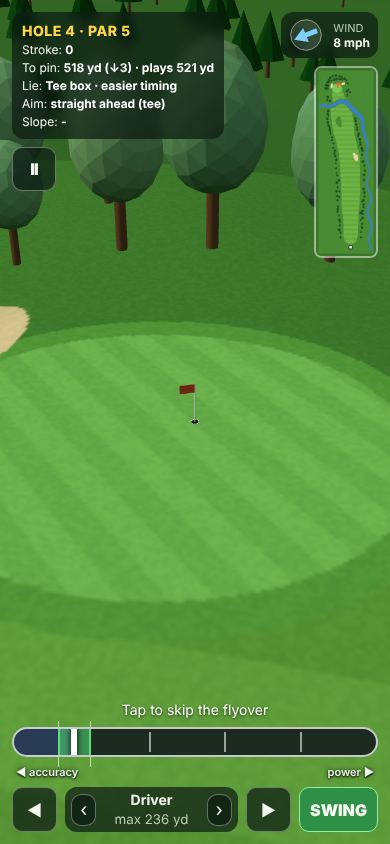
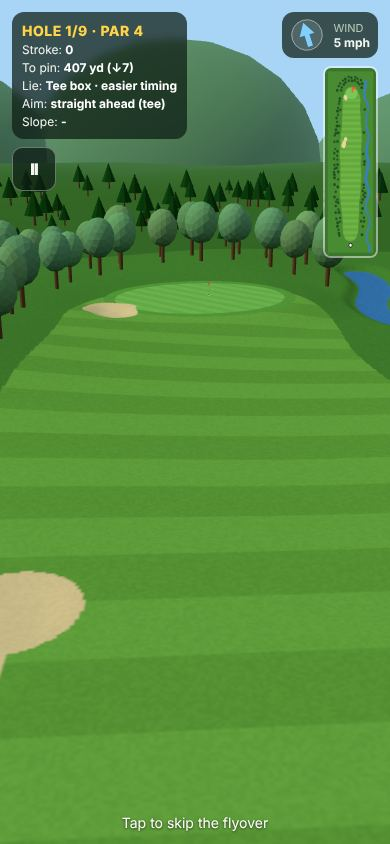
PM on #63: hide the bottom panel during the flyover, flight-view rules across the round, How to Play aim marker text
Claude-Session: https://claude.ai/code/session_01Rv6NgAADw2XvfsDiNgoB5v

diff --git a/src/game/session.js b/src/game/session.js
@@ -31,8 +31,9 @@ const DELAY = { aim: TIMING.afterStop, returnToLast: TIMING.afterPenalty, holed:
 //          what to call when the hole is over instead of showing the single-hole result card,
 //          puttGrid (Phase 7 setting, core/menu.js PUTT_GRID), links (false: hide the intro card's ?hole= links,
 //          for a hole started from the menu), flyover (V4: play the hole flyover after the card), classicCam (V3
-//          setting: the flight camera always films from behind) }
-export function createHoleSession(hole, { renderer, input, seed, start = null, info = () => [], round = null, puttGrid = 'hole', links = true, flyover = false, classicCam = false }) {
+//          setting: the flight camera always films from behind), flightHistory (V3: the flight views of the game so
+//          far, oldest first; main.js shares one array across a round so the variety rules count over the round) }
+export function createHoleSession(hole, { renderer, input, seed, start = null, info = () => [], round = null, puttGrid = 'hole', links = true, flyover = false, classicCam = false, flightHistory = [] }) {
   const play = createHolePlay(hole, { seed });
   const { terrain, cup, tee, ball, wind } = play;
   const meter = createMeter();
@@ -73,7 +74,7 @@ export function createHoleSession(hole, { renderer, input, seed, start = null, i
   let marks = null; // S22: play.aimMarks() while aiming a full shot (the marker, ticks and label)
   const markPt = camera.position.clone(); // reused for the label's screen position
 
-  const updateHud = () => { hud.update(state, meter.power); $view().hidden = state !== 'aim'; measureFrame(); };
+  const updateHud = () => { hud.update(state, meter.power); $view().hidden = state !== 'aim'; document.body.classList.toggle('flyover', state === 'flyover'); measureFrame(); };
   // V2: the view button while aiming (null = the aiming view, else core/views.js VIEW_STEPS)
   let view = null, viewPress = null; // viewPress = { at, opened } while the button is held
   // V1: the free band of the screen the aiming view must fit in (core/views.js `frame`), measured from the HUD
@@ -88,7 +89,6 @@ export function createHoleSession(hole, { renderer, input, seed, start = null, i
   // V3: the flight camera of the shot in the air (core/views.js pickFlightView), on its own seeded
   // stream (the physics never draws from it, so a replay plays the same and the baselines don't move)
   const viewRng = createRng((seed ^ CAM.viewSalt) | 0);
-  const flightHistory = [];
   const flightWorld = { heightAt: terrain.heightAt, surfaceAt: terrain.surfaceAt, obstacles: play.obstacles, penalty: id => !!play.surfaces[id]?.penalty };
   let flight = null; // { kind, spot, side, cut (the rig cuts to the spot on its next frame), dropped (handed back to the chase camera) }
   // V4: the flyover (null when the hole has none or it has played)
@@ -389,7 +389,7 @@ export function createHoleSession(hole, { renderer, input, seed, start = null, i
   function endFlyover() {
     if (state !== 'flyover') return;
     fly = null;
-    readyForShot(true);
+    readyForShot(true); // (its updateHud brings the bottom panel back)
   }
 
   // Pause (M3). A swing in progress is cancelled with no stroke (the meter runs on real time, so it
@@ -417,7 +417,7 @@ export function createHoleSession(hole, { renderer, input, seed, start = null, i
     clearTimers();
     $holeCard().classList.add('hidden');
     showSkip(false);
-    $view().hidden = true; $view().classList.remove('on');
+    $view().hidden = true; $view().classList.remove('on'); document.body.classList.remove('flyover');
     hud.dispose();
     disposeScene(scene);
   }

diff --git a/src/game/main.js b/src/game/main.js
@@ -87,6 +87,8 @@ const debugParam = params.get('debug') === '1';
 let session = null, round = null, game = null;
 // V4: the holes whose flyover has played in this game (a round, or one hole and its restarts)
 const flown = new Set();
+// V3 (PM on #63): the flight views of this game, so "not too many in a row" counts across the round
+const flightHistory = [];
 let paused = false;
 const extraInfo = () => [
   ...(round?.mode === 'ai' ? [`vs AI  ${round.difficulty}  ${round.leaderboard().map(r => `${r.posText} ${r.id} ${toParText(r.toPar)}`).join(' · ')}`] : []),
@@ -100,7 +102,7 @@ function loadHole(h, opts = {}) {
     renderer, input, seed: opts.seed, start: opts.start ?? null, info: extraInfo, round: opts.round ?? null,
     puttGrid: settings.puttGrid, links: !game?.fromMenu,
     // V4: the flyover plays the first time a hole starts from its tee in this game (not from a scenario's spot)
-    flyover: settings.flyover && !opts.start && !flown.has(h.id), classicCam: settings.flightCam === 'classic',
+    flyover: settings.flyover && !opts.start && !flown.has(h.id), classicCam: settings.flightCam === 'classic', flightHistory,
   });
   if (!opts.start) flown.add(h.id);
   session.showColliders(debug.visible); // K5: collider outlines show while the debug overlay is open
@@ -143,6 +145,7 @@ window.visualViewport?.addEventListener('resize', resize);
 function startGame(launch, { fromMenu = true, notices = [] } = {}) {
   endGame();
   flown.clear(); // V4: a new game shows each hole's flyover again
+  flightHistory.length = 0; // V3: and the flight-view rules start over
   menus.hide();
   game = { launch, fromMenu };
   debug.show(settings.debug || debugParam);
@@ -275,6 +278,7 @@ function playAgain() {
   const set = round.set, g = game, opts = { mode: round.mode, difficulty: round.difficulty ?? DEFAULT_DIFFICULTY };
   endGame();
   flown.clear(); // V4: once per hole per round, and this is a new round
+  flightHistory.length = 0;
   game = g;
   startRound(set, freshSeed(), opts);
 }

diff --git a/index.html b/index.html
@@ -107,6 +107,8 @@
     background: rgba(12, 28, 20, .7); border-color: rgba(255,255,255,.45); touch-action: none; }
   #viewBtn.on { border-color: var(--accent); color: var(--accent); background: rgba(12, 28, 20, .9); }
   #viewBtn[hidden] { display: none; }
+  /* Phase V (V4, PM on #63): during the flyover only the small "tap to skip" hint shows at the bottom */
+  body.flyover #meterWrap, body.flyover #controls, body.flyover #viewBtn, body.flyover #skipBtn, body.flyover #tuned { display: none; }
   #swingBtn { flex: 0 0 auto; font-weight: 900; background: #2f8f46; border-color: #8ef0a5; padding: 8px 18px; }
 
   /* Overlays */
@@ -545,7 +547,7 @@
     <section data-screen="how" hidden>
       <div class="menuHead"><button class="backBtn" data-back aria-label="Back">‹</button><h1>How to Play</h1></div>
       <ol class="howList">
-        <li><b>Aim</b> with the ◀ ▶ buttons or arrow keys. The yellow ring shows where the ball lands.</li>
+        <li><b>Aim</b> with the ◀ ▶ buttons or arrow keys. The yellow triangle at the end of the aim line shows where a full-power straight shot lands (the ticks: 25, 50 and 75% power); on a putt, the ring shows where it ends.</li>
         <li><b>Pick a club</b> with ‹ › or ▲ ▼. The best club is chosen for you.</li>
         <li><b>Swing in three clicks</b> (tap, click or <kbd>Space</kbd>): the 1st starts the meter, the 2nd sets <b>power</b> (the bar is in quarters, like the ticks on the aim line; the ⚑ shows a putt's power), the 3rd sets <b>accuracy</b>: stop on the <span style="color:var(--good)">green line</span> for a straight shot. Early hooks left, late slices right. <b>Putts take 2 clicks</b> (start, power) and always roll straight along your aim.</li>
         <li>Watch the <b>wind</b> (top right) and the <b>lie</b>: rough and sand cap your power (the gray part of the meter).</li>

diff --git a/docs/DESIGN.md b/docs/DESIGN.md
@@ -165,8 +165,8 @@ Clubs: Driver 215 m / 12°, 3W 195/17, 5i 170/21, 7i 150/26, 9i 125/32, PW 105/3
 Where the camera stands is pure math in core (`src/core/views.js`, tests/views.test.js); `src/game/camera.js` only eases toward it. **Never a blind shot**, in phone portrait and landscape.
 - ✅ **V1 aiming view** (owner on PR #63: "the aiming camera was fine before … a bit too low"; the 🔍 Landing button is how the player looks at the marker). **Main's camera**: 7 m behind the ball on the aim line, looking at the ground 30 m ahead (`CAM.aim`); putts 3.5 m back, 1.6 m up, looking 5 m ahead (`CAM.putt`, unchanged). The full-shot height is main's 2.6 m × **`CAM_AIM_HEIGHT`** (1.25, `?tune=`; 1 = main exactly). One correction: when the ball would show below the **free band** (from the lowest top panel over the screen's centre down to the top of the meter panel, `session.js measureFrame`), the camera tilts down (same spot) so the ball sits at `CAM.ballMax` (97%) of the band. On main the ball hid behind the hint line in phone landscape and when facing a steep upslope. Wherever main showed the ball, the view is main's. The marker may be off screen (the landing button shows it). Test: on every hole, scenario and club, portrait and landscape, the ball is in the band.
 - ✅ **V2 view button** (small, above the meter on the left, only while aiming before click 1; ⏩ Skip uses the right side of that row while the ball moves). Optional: nothing needs it. A **tap** opens a view until tapped again, **holding** it (> `CAM.holdMs`, 300 ms) shows the view until it is released; **V** on a keyboard is a tap. Full shots: **🔍 Landing**, from behind and above the marker looking at it (the marker in the free band). Putts: **👁 Read** steps through **from above** (ball and cup both in the band, the putt up the screen, the grid if the green has one), then **low** (crouched 3 m behind the ball at 0.45 m, looking at the cup), then back. The label says what the next tap does (↩ Back on the last view). Aiming and changing club still work in a view; starting the swing (click 1) or a new shot returns to the aiming view.
-- ✅ **V3 flight camera variety** (`pickFlightView`): **behind** (the chase camera, as before), **side** (a spot 40% down the line and 17% of the carry to one side, at least 15 m up, above the canopy; it hands over to behind at the first bounce) and **landing** (25 m past the predicted landing, 9 m to one side, 7 m up, watching the ball come in and roll; behind once the ball runs 40 m past it). A standing camera is a cut at the hit and turns to keep the ball in view. Rules: putts and shots carrying under `CAM_VARIETY_MIN` (60 m) are behind; otherwise a weighted draw `CAM_W_BEHIND` / `CAM_W_SIDE` / `CAM_W_LANDING` (0.5 / 0.25 / 0.25); no view more than `CAM_MAX_RUN` (2) shots in a row on a hole, landing never twice. **Never blind:** a side or landing spot is used only if it is in bounds (the scenery forest stands outside OB) and sees the landing spot, the top of the flight and the start past the hills and the in-play trees and rocks (else the other side, else behind). **Seeded:** its own RNG stream (`createRng(hole seed ^ CAM.viewSalt)`, 2 numbers per shot), so the physics, lip-outs and leaves never change (baselines untouched). **Settings → Flight camera: Varied / Classic** (Classic = always behind; also `?tune=CAM_VARIETY:0`).
-- ✅ **V4 hole flyover** (`flyoverRoute`, `flyoverPath`): the hole's regular route only, tee → `aimTarget` (else the default tee aim point) → green, never the `playLine` corner (PM on #63); par 3: tee → green. A smoothed path 32 m over the ground (down to 16 m near the green) that runs on 30 m past the cup, so it ends behind the green looking back at the flag; `length / CAM_FLYOVER_SPEED` (90 m/s), 3.5–6.5 s, on the real clock. A `flyover` game state (`states.js`) after the intro or hole card, then the tee's aiming view. **A tap, Space, Enter or ⏩ skips it**; it never swings. It plays the first time a hole starts from its tee in a game (each hole of a round, `?hole=` links, practice holes), not on `?scenario=` spots, a restart or Play again on one hole; a new round plays them again. **Settings → Hole flyover: On / Off** (default On). The tools (session-check, menu-check, baseline) skip it where they wait for aiming.
+- ✅ **V3 flight camera variety** (`pickFlightView`): **behind** (the chase camera, as before), **side** (a spot 40% down the line and 17% of the carry to one side, at least 15 m up, above the canopy; it hands over to behind at the first bounce) and **landing** (25 m past the predicted landing, 9 m to one side, 7 m up, watching the ball come in and roll; behind once the ball runs 40 m past it). A standing camera is a cut at the hit and turns to keep the ball in view. Rules: putts and shots carrying under `CAM_VARIETY_MIN` (60 m) are behind; otherwise a weighted draw `CAM_W_BEHIND` / `CAM_W_SIDE` / `CAM_W_LANDING` (0.5 / 0.25 / 0.25); no view more than `CAM_MAX_RUN` (2) shots in a row, landing never twice, counted **across the round** (PM on #63; it starts over with a new game or Play again). **Never blind:** a side or landing spot is used only if it is in bounds (the scenery forest stands outside OB) and sees the landing spot, the top of the flight and the start past the hills and the in-play trees and rocks (else the other side, else behind). **Seeded:** its own RNG stream (`createRng(hole seed ^ CAM.viewSalt)`, 2 numbers per shot), so the physics, lip-outs and leaves never change (baselines untouched). **Settings → Flight camera: Varied / Classic** (Classic = always behind; also `?tune=CAM_VARIETY:0`).
+- ✅ **V4 hole flyover** (`flyoverRoute`, `flyoverPath`): the hole's regular route only, tee → `aimTarget` (else the default tee aim point) → green, never the `playLine` corner (PM on #63); par 3: tee → green. A smoothed path 32 m over the ground (down to 16 m near the green) that runs on 30 m past the cup, so it ends behind the green looking back at the flag; `length / CAM_FLYOVER_SPEED` (90 m/s), 3.5–6.5 s, on the real clock. A `flyover` game state (`states.js`) after the intro or hole card, then the tee's aiming view; meanwhile the bottom panel shows only the "Tap to skip the flyover" hint (PM on #63). **A tap, Space, Enter or ⏩ skips it**; it never swings. It plays the first time a hole starts from its tee in a game (each hole of a round, `?hole=` links, practice holes), not on `?scenario=` spots, a restart or Play again on one hole; a new round plays them again. **Settings → Hole flyover: On / Off** (default On). The tools (session-check, menu-check, baseline) skip it where they wait for aiming.
 
 ### Surface table (today's values: `rest` / `keep` / `decel`)
 The power cap and accuracy window per surface (`maxPower`, `sweetScale`) are in §3 "Lie". There is no `lie` power multiplier any more (removed in S11).
